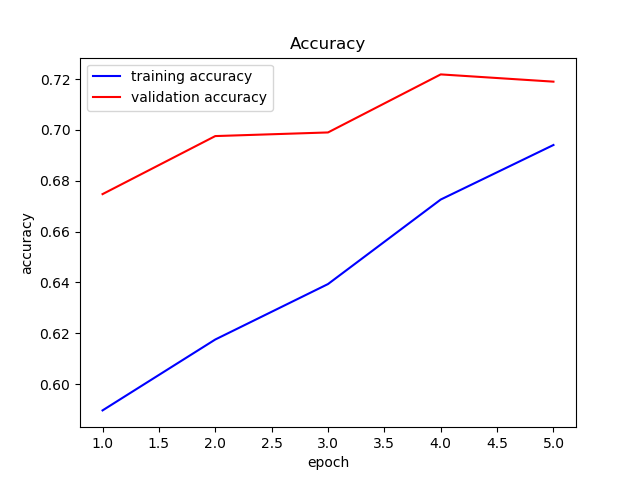
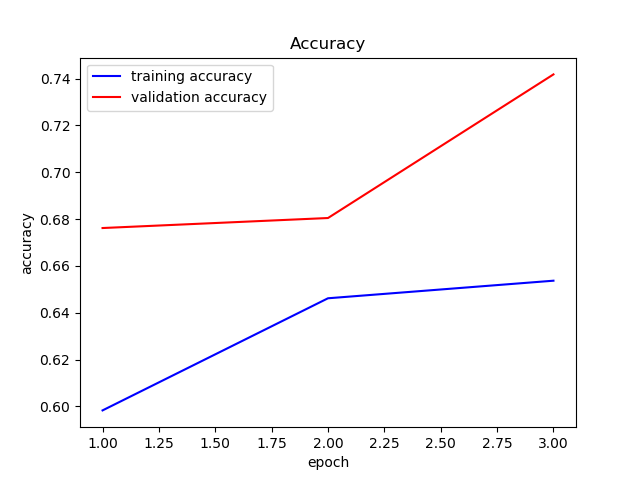
added more printed info

diff --git a/gin.py b/gin.py
@@ -95,11 +95,9 @@ def train(epoch):
     Global vars: train_loader, train_size, device, optimizer, model
     """
     model.train()
-    '''
-    if epoch == 51:
+    if epoch == 300:
         for param_group in optimizer.param_groups:
             param_group['lr'] = 0.5 * param_group['lr']
-    '''
     loss_total = 0
     correct = 0
     for data in train_loader:
@@ -142,7 +140,7 @@ def plot_loss(train_loss, val_loss, loss_dir, num_epoch):
     """
     Plot loss.
     """
-    epochs = np.array(range(num_epoch)) + 1
+    epochs = np.array(range(num_epoch), dtype=int) + 1
     fig = plt.figure()
     plt.title('Loss')
     plt.xlabel('epoch')
@@ -159,7 +157,7 @@ def plot_accuracy(train_acc, val_acc, acc_dir, num_epoch):
     """
     Plot accuracy.
     """
-    epochs = np.array(range(num_epoch)) + 1
+    epochs = np.array(range(num_epoch), dtype=int) + 1
     fig = plt.figure()
     plt.title('Accuracy')
     plt.xlabel('epoch')
@@ -184,9 +182,9 @@ if __name__ == "__main__":
     device = torch.device('cuda' if torch.cuda.is_available() else 'cpu') # detect cpu or gpu
 
     threshold = 4.5 # unit:ångström. hyper-parameter for forming graph, distance thresh hold of forming edge.
-    num_epoch = 5 # number of epochs to train
-    batch_size = 8
-    num_workers = batch_size # number of processes assigned to dataloader.
+    num_epoch = 4 # number of epochs to train
+    batch_size = 4
+    num_workers = 8 # number of processes assigned to dataloader.
     neural_network_size = 16
     
     print('threshold:', threshold)    
@@ -201,11 +199,14 @@ if __name__ == "__main__":
     folds.remove(val_fold)
     train_loader, val_loader, train_size, val_size = gen_loaders(op, root_dir, folds, val_fold, batch_size=batch_size, threshold=threshold, shuffle=True, num_workers=num_workers)
     model = Net(num_features=3, dim=neural_network_size).to(device)
-    optimizer = torch.optim.Adam(model.parameters(), lr=0.001)
+    print('model architecture:')
+    print(model)
+    optimizer = torch.optim.Adam(model.parameters(), lr=0.002)
     train_losses = []
     val_losses = []
     train_accs = []
     val_accs = []
+    print('begin training...')
     for epoch in range(1, 1 + num_epoch):
         train_loss, train_acc = train(epoch)
         val_loss, val_acc = validate()
